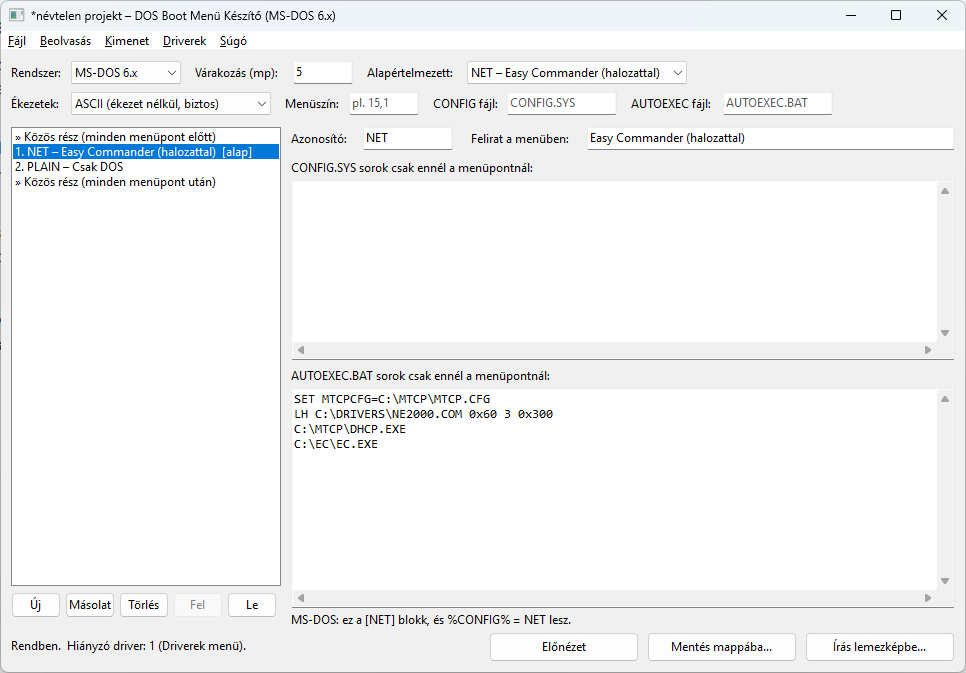
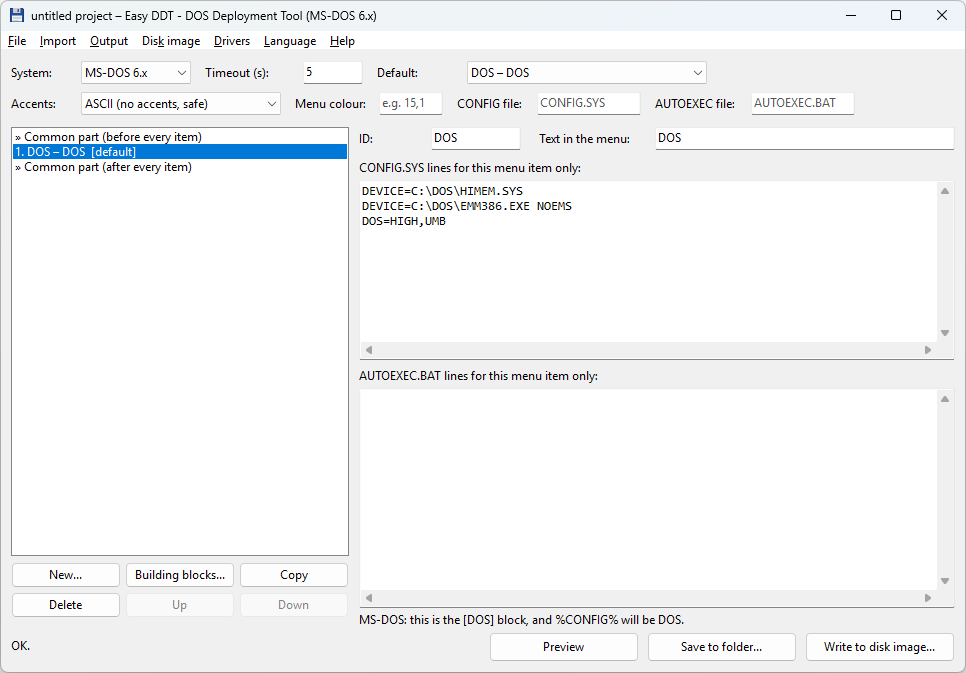
Version 0.8.6; English screenshots of the main window and the wizard
Claude-Session: https://claude.ai/code/session_01MrP2VocTK44Z7Q57d8Y87j

diff --git a/src/tools/winres/main.go b/src/tools/winres/main.go
@@ -15,9 +15,9 @@ import (
 )
 
 const (
-	version     = "0.7.0"
-	versionMS   = 0<<16 | 7 // major.minor
-	versionLS   = 0<<16 | 0 // patch.build
+	version     = "0.8.6"
+	versionMS   = 0<<16 | 8 // major.minor
+	versionLS   = 6<<16 | 0 // patch.build
 	productName = "Easy DDT"
 	company     = "Daniel Szentmiklosi"
 	description = "Easy DDT (DOS Deployment Tool) - DOS boot menus, bootable disk images and CF cards"
@@ -27,7 +27,7 @@ const (
 
 const manifest = `<?xml version="1.0" encoding="UTF-8" standalone="yes"?>
 <assembly xmlns="urn:schemas-microsoft-com:asm.v1" manifestVersion="1.0">
-  <assemblyIdentity type="win32" name="Szentmiklosi.EasyDDT" version="0.7.0.0" processorArchitecture="amd64"/>
+  <assemblyIdentity type="win32" name="Szentmiklosi.EasyDDT" version="0.8.6.0" processorArchitecture="amd64"/>
   <description>Easy DDT (DOS Deployment Tool)</description>
   <dependency>
     <dependentAssembly>

diff --git a/src/drivers.go b/src/drivers.go
@@ -456,7 +456,7 @@ func (s *Store) fetch(url string) ([]byte, error) {
 	if err != nil {
 		return nil, err
 	}
-	req.Header.Set("User-Agent", "EasyDDT/0.7")
+	req.Header.Set("User-Agent", "EasyDDT/0.8")
 	resp, err := httpClient.Do(req)
 	if err != nil {
 		return nil, err

diff --git a/README.md b/README.md
@@ -13,6 +13,8 @@ have DOS line endings.
 
 ![The main window: menu items on the left, their CONFIG.SYS and AUTOEXEC.BAT lines on the right](docs/screenshot.png)
 
+![The start-up wizard: what would you like to do?](docs/wizard.png)
+
 ## Status
 
 Early version (0.x). Earlier versions were called Easy Retro System Builder (EasyRSB);
